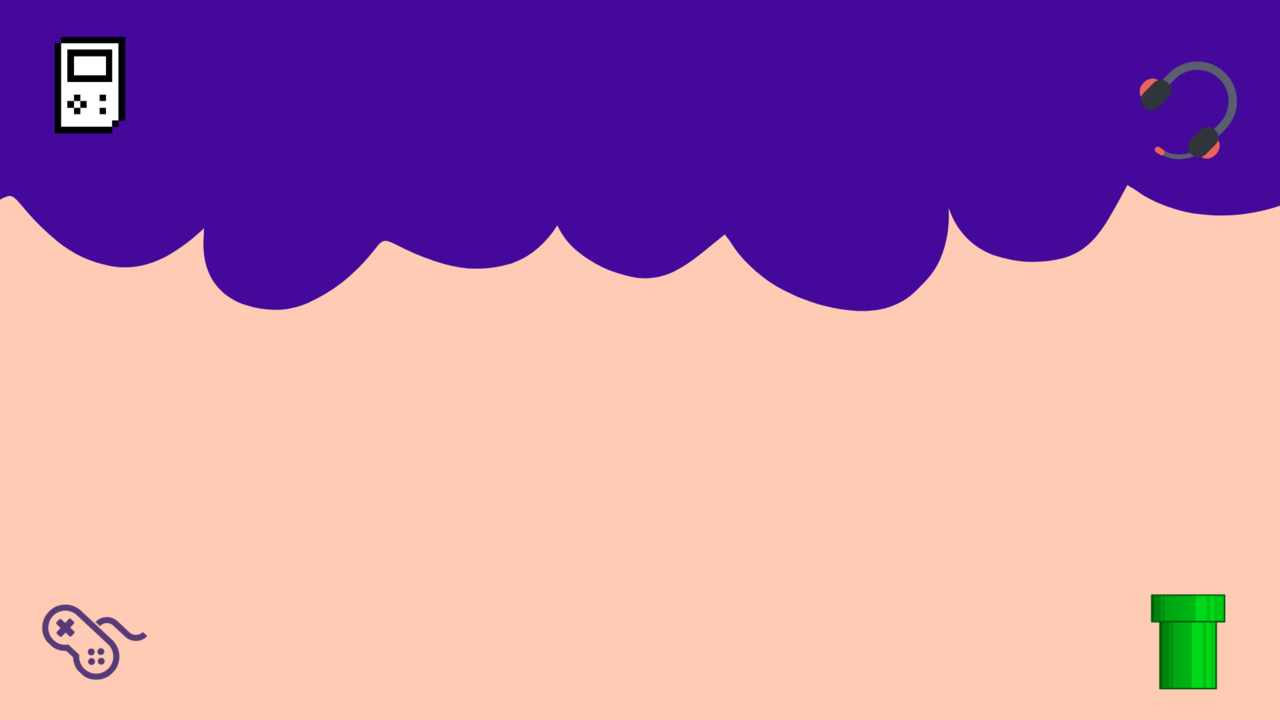
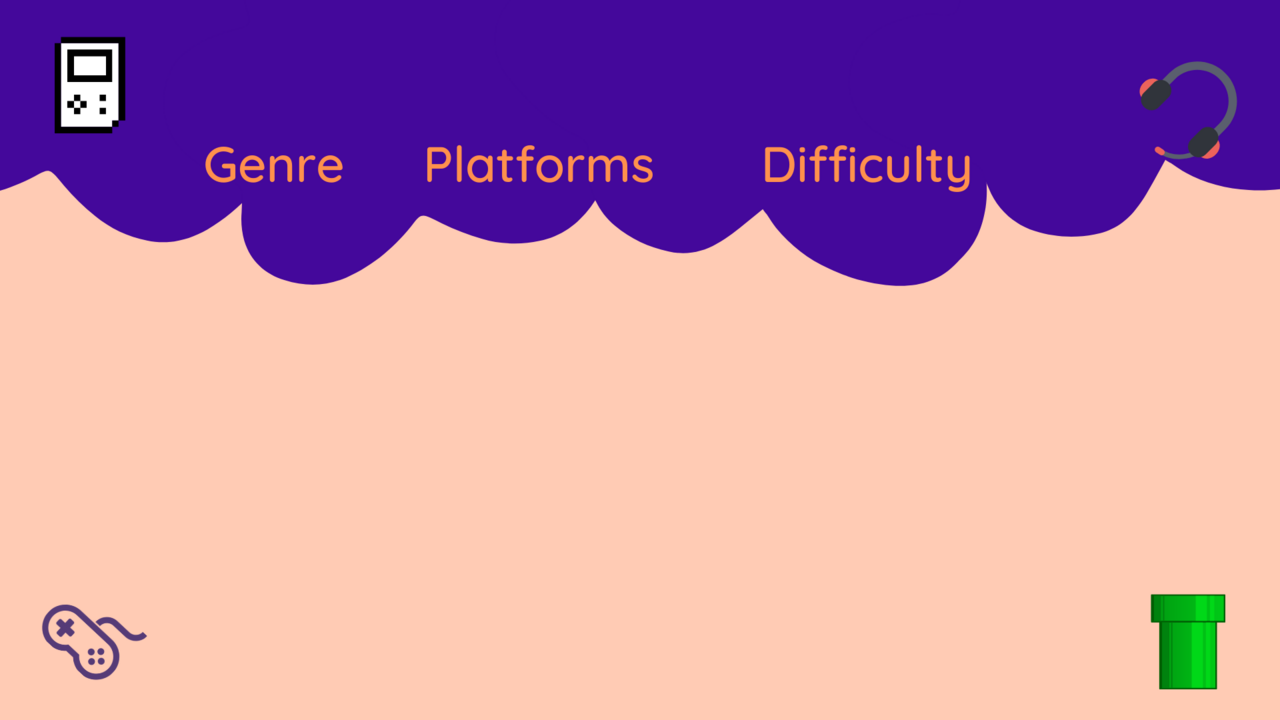
Final code up to April 21st

diff --git a/graphicInterface.py b/graphicInterface.py
@@ -1,46 +1,59 @@
 import tkinter as tk
 from tkinter import ttk
 
-#Lists later to be used for the user selections
+# Lists later to be used for the user selections
 GenreList = []
 PlatformsList = []
+SwitchesList = []
 
-#Function to show the main menu to the user
+# Function to show the main menu to the user
+
+
 def MainMenu():
-    #tkinter's label is used in this case to include the background image, which is defined in the main algorithm
+    # Reset the window by destroying previous widgets
+    for ele in app.winfo_children():
+        ele.destroy()
+    # tkinter's label is used in this case to include the background image, which is defined in the main algorithm
     bglabel = tk.Label(app, image=bg)
     bglabel.pack()
-    #This button makes you switch to the next menu
+    # This button makes you switch to the next menu
     mainbutton = tk.Button(app, text="Start", width=20,
                            height=3, command=Menu2, bg="#F55A51", font=100)
-    mainbutton.place(x=510, y=565)
+    mainbutton.place(x=540, y=565)
 
 
 def Menu2():
-    #For loop to clear all the widgets from the root, so that we can start with the next menu
+    # For loop to clear all the widgets from the root, so that we can start with the next menu
     for ele in app.winfo_children():
         ele.destroy()
-    #In this canva we will show all the elements for the next menu
+    # Making a button to go back to the main menu
+    # In this canva we will show all the elements for the next menu
     canva = tk.Canvas(app)
     canva.pack()
-    #Label to show the background for the second menu
+    # Label to show the background for the second menu
     bg2label = tk.Label(canva, image=bg2)
     bg2label.pack()
-    #Switch that determines if a checkbutton is selected
+    backButton = tk.Button(canva, image=backImage, height=40, width=40, bd=1,
+                           relief="flat", overrelief="raised", bg="#FFCBB4", command=MainMenu)
+    backButton.place(x=10, y=670)
+    # Switch that determines if a checkbutton is selected
     swAction = tk.BooleanVar()
-    #We create a button with every Genre to allow the user to click a bunch of them, so that they
-    #can select multiple genres, generating then a list of genres, this will happen in the button to 
-    #show the results
+    SwitchesList.append(swAction)
+    # We create a button with every Genre to allow the user to click a bunch of them, so that they
+    # can select multiple genres, generating then a list of genres, this will happen in the button to
+    # show the results
     ActionButton = ttk.Checkbutton(canva, text="Action", variable=swAction)
     ActionButton.place(x=190, y=250)
     swAdventure = tk.BooleanVar()
-    #We build each button with the text of the Genre name and de variable that determines
-    #If it is selected or not, which we'll use then to get the elements of the list
+    SwitchesList.append(swAdventure)
+    # We build each button with the text of the Genre name and de variable that determines
+    # If it is selected or not, which we'll use then to get the elements of the list
     AdventureButton = ttk.Checkbutton(
         canva, text="Adventure", variable=swAdventure)
-    #With the place method, we get the buttons in a specific pixel of the window
+    # With the place method, we get the buttons in a specific pixel of the window
     AdventureButton.place(x=190, y=290)
     swCoop = tk.BooleanVar()
+    SwitchesList.append(swCoop)
     CoopButton = ttk.Checkbutton(canva, text="Coop", variable=swCoop)
     CoopButton.place(x=190, y=330)
     swFighting = tk.BooleanVar()
@@ -68,15 +81,62 @@ def Menu2():
         canva, text="Survival", variable=swSurvival)
     SurvivalButton.place(x=190, y=570)
 
-#Defining the root or master of our app
+    # After the Genre checkboxes, we define the Platform checkboxes
+    # We use the same methodology as in the Genre ones
+    swPc = tk.BooleanVar()
+    PcButton = ttk.Checkbutton(
+        canva, text="Pc", variable=swPc)
+    PcButton.place(x=410, y=250)
+    swPst = tk.BooleanVar()
+    PstButton = ttk.Checkbutton(
+        canva, text="PlayStation", variable=swPst)
+    PstButton.place(x=410, y=290)
+    swXbox = tk.BooleanVar()
+    XboxButton = ttk.Checkbutton(
+        canva, text="Xbox", variable=swXbox)
+    XboxButton.place(x=410, y=330)
+    swSwitch = tk.BooleanVar()
+    SwitchButton = ttk.Checkbutton(
+        canva, text="Nintendo Switch", variable=swSwitch)
+    SwitchButton.place(x=410, y=370)
+
+    # Now we create the scale for the difficulty
+    difficulty = tk.DoubleVar()
+    diffScale = tk.Scale(canva, variable=difficulty,
+                         from_=0, to=5, orient=tk.HORIZONTAL, bg="#44089B", bd=1,
+                         relief="flat")
+    diffScale.place(x=820, y=210)
+
+    # Finally, we define the button to advance to gather the info and show the final results
+    ResultsButton = tk.Button(canva, text="Get Recommendations",
+                              bg="#F55A51", height=3, width=20, command=getInfo, font=100)
+    ResultsButton.place(x=540, y=565)
+
+
+def getInfo():
+    """
+    In this part of the code, we will implement the selections class from the skeleton to gather the
+    information and store it in an object from that class, so that it can be used them for the classifier.
+    After getting this information, it will lead the user to the 3rd menu, which will show the final
+    results that we get from the process mentioned earlier.
+    """
+    menu3()
+
+
+def menu3():
+    pass
+
+
+# Defining the root or master of our app
 app = tk.Tk()
-#Changing the size of the app to 1280 x 720 so that it fits in every pc, no matter the resolution
-app.geometry("1280x720")
-#We set the window to not be resizable so that the image is not distorted
+# Changing the size of the app to 1280 x 720 so that it fits in every pc, no matter the resolution
+app.geometry("1280x720+120+65")
+# We set the window to not be resizable so that the image is not distorted
 app.resizable(False, False)
 app.title("Play It")
 bg = tk.PhotoImage(file="bin\Play it.png")
 bg2 = tk.PhotoImage(file="bin\Inputs menu.png")
+backImage = tk.PhotoImage(file="bin\Boton regresar.png")
 MainMenu()
 
 app.mainloop()

diff --git a/README.md b/README.md
@@ -7,3 +7,13 @@ Esteban Perez
 
 ## UML Diagram
 ![UML](https://github.com/Rcgil30/Play_It/blob/main/bin/ClassDiagram.png)
+
+## Functional Requirement
+
+The main use of a functional requirement right now is the use of the graphic interface, since we do not have our database complete, the management of data is not defined yet, so the main functional part of the program, which is classifying the information to give a result of games to the user is not developed yet.
+
+As for the functionality of the graphic interface, we have a main menu with a button, which has the function of leading you to an input menu, were you can find a bunch of checkboxes for the genre and platforms, as well as the button to advance to the results, which will gather the information the user selected and assign it to the variables later to be used by the classes defined in the skeleton.
+
+Note: We're still lacking the implementation of the widgets for the inputs of the developer and the difficulty.
+
+Also, if you run the graphic inteface and it shows an error or doesn't show the main image, it might be because the path to the image file throws an error. In that case, please notify that through the GitHub issues.
